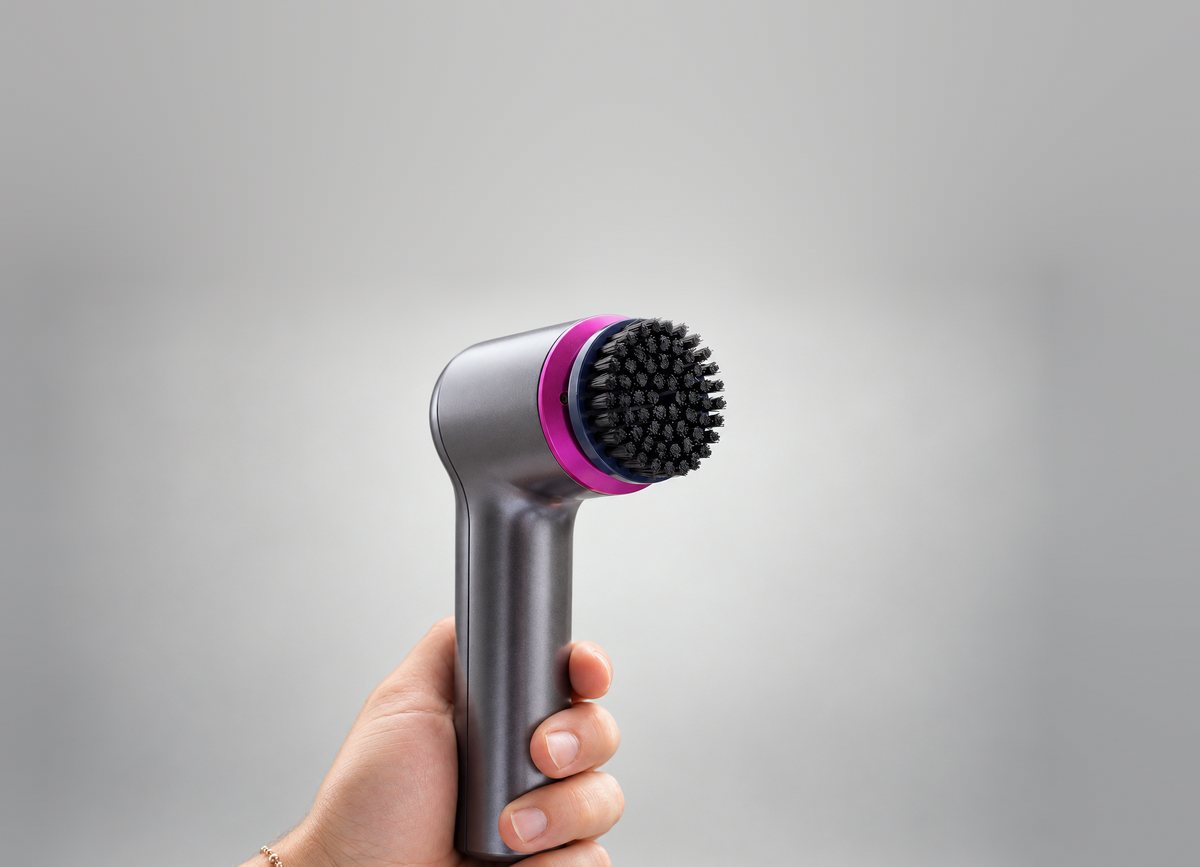
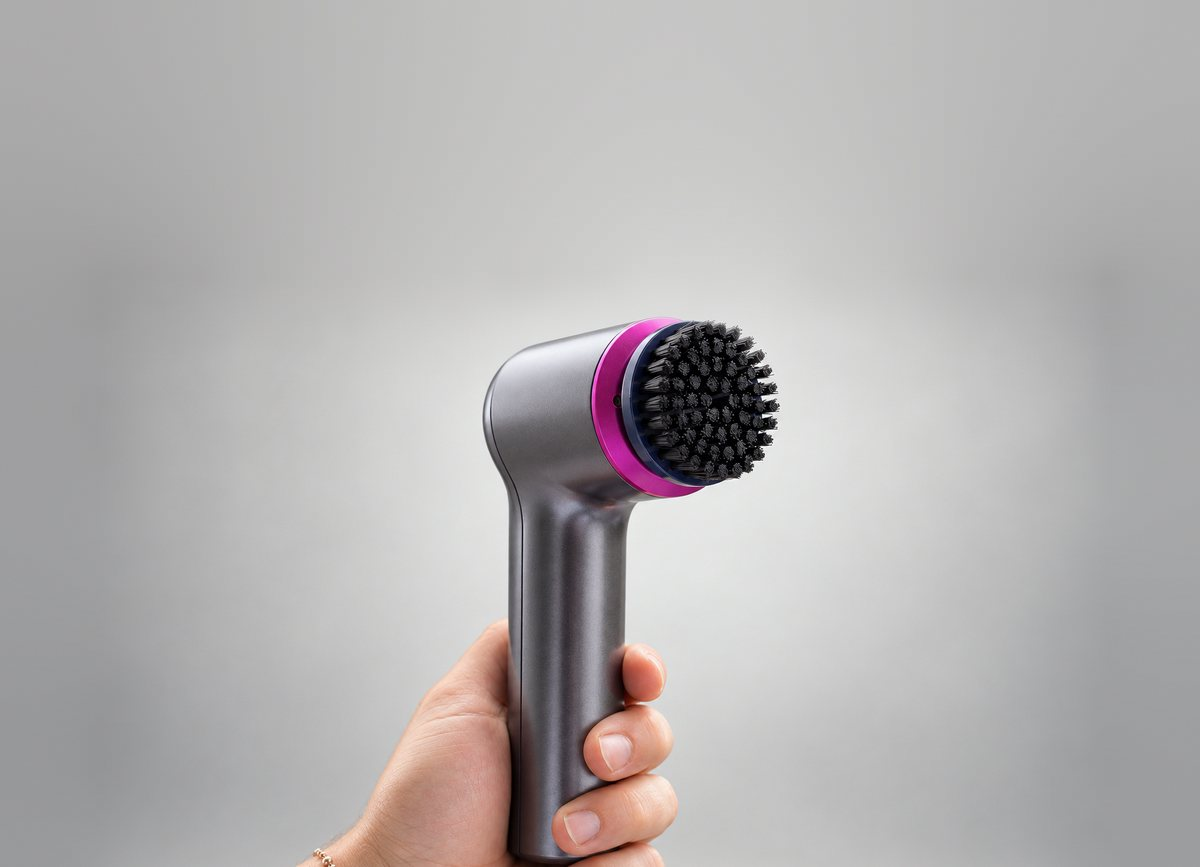
Aufsatz-Bühne: Fotos am Aufsatz ausgerichtet statt am Griff
Claude-Session: https://claude.ai/code/session_01HUoAtEL63hpCmTAPS1noco

Changed region(s): [[0.185, 0.3426, 0.6475, 1.0]]

diff --git a/werkzeuge/buehne_ausrichten.py b/werkzeuge/buehne_ausrichten.py
@@ -3,14 +3,15 @@ sys.path.insert(0, '/home/user/material/werkzeuge')
 import numpy as np
 import studio_stage as st
 S = sys.argv[1] if len(sys.argv) > 1 else '.'  # Ordner mit cut/src_N.png und cut/cut_N.png (Freisteller per rembg)
-# Griffmitte (x) und Geräteoberkante (y) im 1536×1024-Foto
-LM = {12: (686, 200), 6: (712, 77), 7: (754, 147)}
+# Mitte des Aufsatzes (x, y) im 1536×1024-Foto – auf diesen Punkt wird ausgerichtet,
+# damit beim Wechsel der Aufsatz an derselben Stelle bleibt
+LM = {12: (977, 310), 6: (870, 195), 7: (969, 266)}
 NAMES = {12: 'weich', 6: 'hart', 7: 'schwamm'}
 a6, _, b6 = st.load(f'{S}/cut/src_6.png', f'{S}/cut/cut_6.png')
 target = a6[b6].mean()
 
-def place(a, fg, bgm, cw, ch, hx, top, n, anchor, out_w, out):
-    ox = hx - LM[n][0]; oy = top - LM[n][1]
+def place(a, fg, bgm, cw, ch, hx, hy, n, anchor, out_w, out):
+    ox = hx - LM[n][0]; oy = hy - LM[n][1]
     # Foto zuschneiden, wo es über die Leinwand hinausragt (negativer Versatz links, unten)
     x0 = max(0, -ox); a, fg, bgm = a[:, x0:], fg[:, x0:], bgm[:, x0:]; ox = max(ox, 0)
     h = min(a.shape[0], ch - oy); a, fg, bgm = a[:h], fg[:h], bgm[:h]
@@ -18,7 +19,7 @@ def place(a, fg, bgm, cw, ch, hx, top, n, anchor, out_w, out):
 
 for n in (12, 6, 7):
     a, fg, bgm = st.load(f'{S}/cut/src_{n}.png', f'{S}/cut/cut_{n}.png', target)
-    # Desktop: 3000×1150, Griff bei x 420, Gerät oben bei y 326
-    print(n, 'D', place(a, fg, bgm, 3000, 1150, 420, 326, n, ('left', 'bottom'), 2400, f'{S}/buehne-{NAMES[n]}.jpg'))
-    # Handy: 1800×1300, Griff bei x 770, Gerät oben bei y 476
-    print(n, 'M', place(a, fg, bgm, 1800, 1300, 770, 476, n, ('bottom',), 1200, f'{S}/buehne-{NAMES[n]}-hoch.jpg'))
+    # Desktop: 3000×1150, Aufsatz bei 21 % / 38 %
+    print(n, 'D', place(a, fg, bgm, 3000, 1150, 630, 437, n, ('left', 'bottom'), 2400, f'{S}/buehne-{NAMES[n]}.jpg'))
+    # Handy: 1800×1300, Aufsatz bei 56 % / 46 %
+    print(n, 'M', place(a, fg, bgm, 1800, 1300, 1008, 598, n, ('bottom',), 1200, f'{S}/buehne-{NAMES[n]}-hoch.jpg'))
